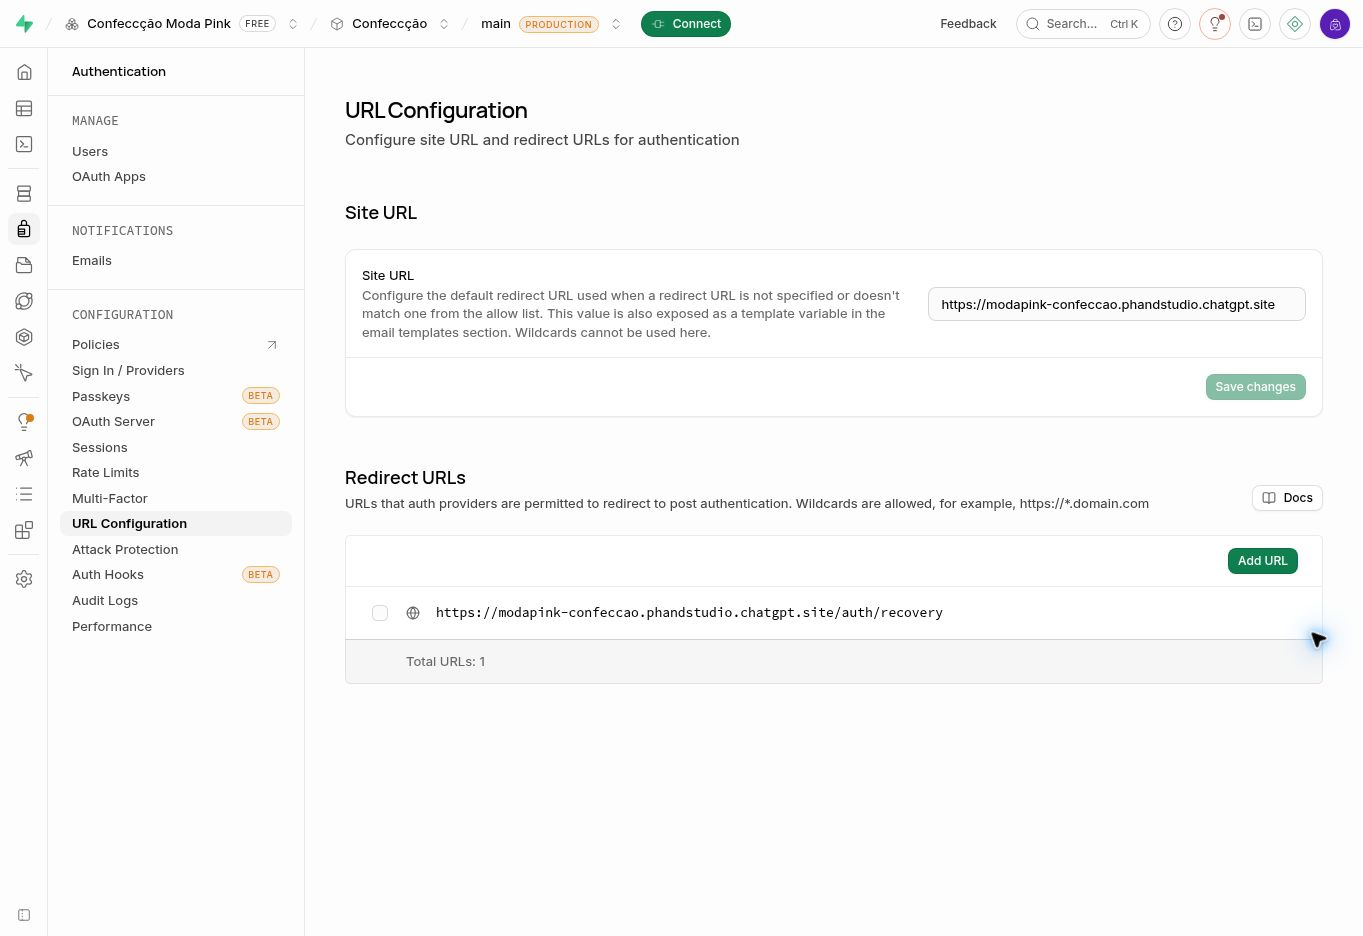
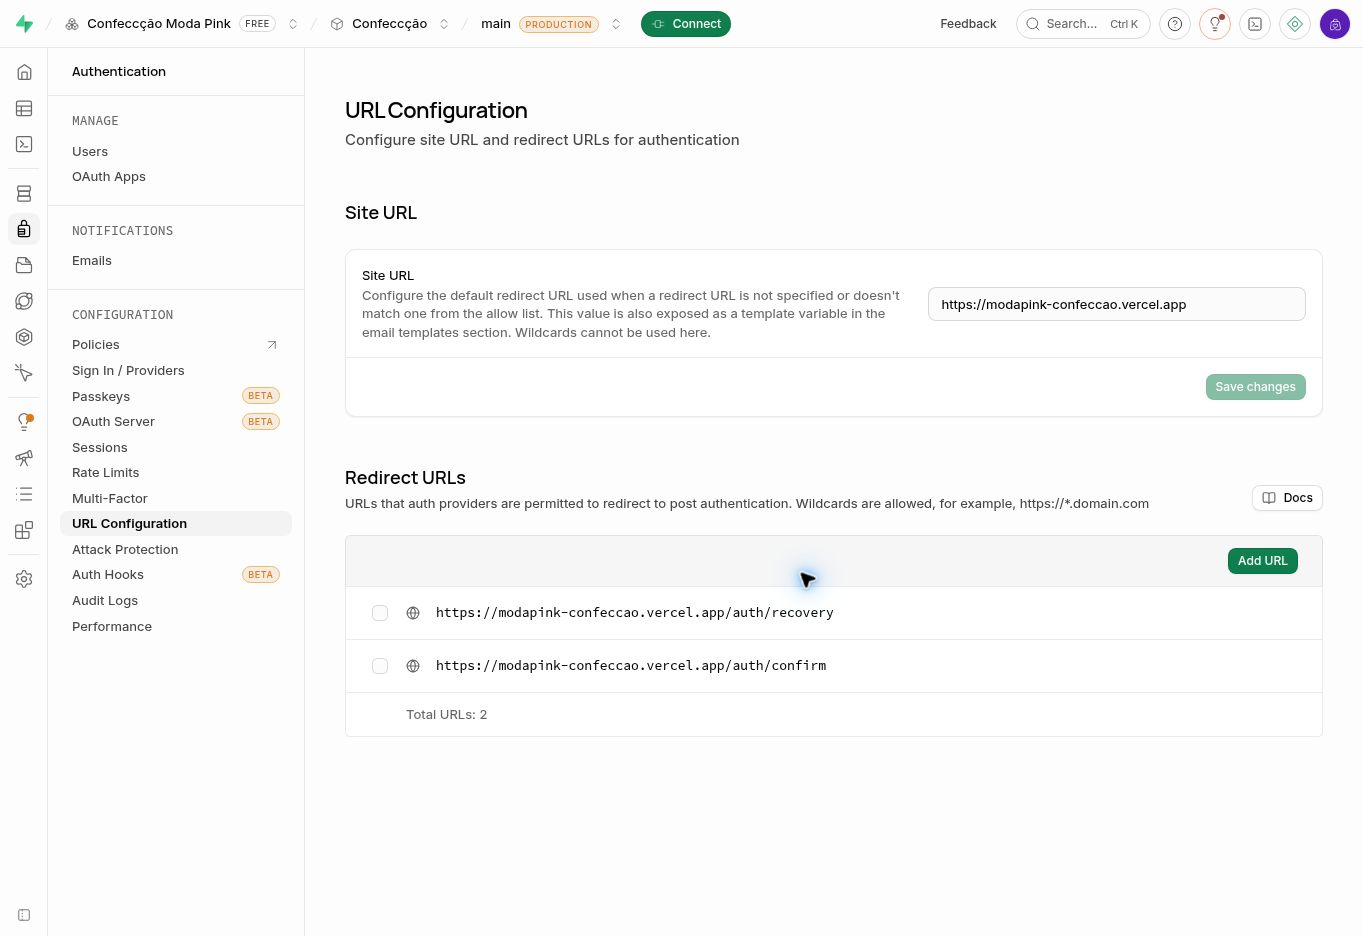
docs(confeccao): record Vercel release and retire ChatGPT Site

diff --git a/projects/confeccao/README.md b/projects/confeccao/README.md
@@ -4,11 +4,13 @@ Aplicação independente em Next.js App Router, TypeScript e Tailwind CSS 4. Ide
 
 ## Situação da integração
 
+Endereço oficial: [https://modapink-confeccao.vercel.app](https://modapink-confeccao.vercel.app). A versão corrigida foi publicada em produção na Vercel. O Site anterior no ChatGPT foi excluído, e seus callbacks foram removidos do Supabase.
+
 Banco instalado no projeto `ragyjbrbhfataoiosgqy` (Confeccção), organização Confeccção Moda Pink. Migrações aplicadas: estrutura operacional e restrição de execução de um helper privilegiado da plataforma. Todas as tabelas da aplicação usam RLS, e as imagens ficam no bucket privado `confeccao-images`.
 
-A aplicação usa configuração pública do projeto na hospedagem, sem chaves administrativas no cliente. O Auth por e-mail/senha está configurado: Site URL `https://modapink-confeccao.phandstudio.chatgpt.site`, redirect exato `https://modapink-confeccao.phandstudio.chatgpt.site/auth/recovery` e cadastro público desativado. O endpoint de configurações confirmou `disable_signup: true` e `external.email: true`.
+A aplicação usa configuração pública do projeto na hospedagem, sem chaves administrativas no cliente. O Auth por e-mail/senha está configurado para a Vercel: Site URL `https://modapink-confeccao.vercel.app`, redirects exatos `https://modapink-confeccao.vercel.app/auth/recovery` e `https://modapink-confeccao.vercel.app/auth/confirm`, e cadastro público desativado. O callback antigo do ChatGPT foi removido da lista autorizada. O endpoint de configurações confirmou `disable_signup: true` e `external.email: true`.
 
-Nenhuma conta Auth foi criada: falta confirmar o e-mail da primeira administradora com a responsável. O SMTP personalizado está desativado. Permanecem pendentes a configuração de envio, o teste de entrega para um destinatário real e o fluxo completo com a primeira conta autorizada. Nenhum usuário, senha padrão ou convite foi inventado.
+O e-mail da primeira administradora já foi fornecido pela responsável e não é persistido neste repositório. Nenhuma conta Auth foi criada e nenhum convite foi enviado. O SMTP personalizado está desativado. Permanecem pendentes a configuração de envio/SMTP, o envio do convite, a confirmação do e-mail, o provisionamento do perfil administrador e o fluxo completo com a primeira conta autorizada. Nenhum usuário ou senha padrão foi inventado.
 
 ![Referência visual da dashboard](docs/preview-dashboard.jpg)
 
@@ -36,6 +38,7 @@ Somente chaves `sb_publishable_...` são aceitas no cliente. Nunca usar chave ad
 ## Funcionalidades preparadas
 
 - Login por e-mail/senha, encerramento de sessão e recuperação de senha com destino fixo.
+- Callback de convite em `/auth/confirm` implementado; aceitação e definição da primeira senha ainda aguardam convite e validação com a destinatária.
 - Perfis ativos: administração, gestão, produção e qualidade, com autorização efetiva no banco.
 - Materiais e fichas por lote, reservas e consumo real em comandos transacionais.
 - Ordens em lista ou quadro, quantidades por tamanho e bloqueio de conclusão sem qualidade.
@@ -55,6 +58,8 @@ npm --prefix supabase/tests ci
 npm run test:db
 npm run build
 ```
+
+TypeScript, build, 15 testes locais de domínio/callback e os testes PostgreSQL passaram. Next.js 16.4.3 e Zod 4.6.7 estão fixados; a auditoria npm não encontrou vulnerabilidades em produção ou desenvolvimento. A publicação Vercel está READY e o login respondeu HTTP 200 com a configuração pública do Supabase correto. O painel redireciona visitantes sem sessão ao login. O teste autenticado completo depende do primeiro convite e da confirmação da senha.
 
 Os testes SQL usam PostgreSQL embarcado com Auth/Storage sintéticos, sem conexão à operação da cliente. Verificam atomicidade, reservas, concorrência, replay, qualidade, snapshots, contrato de retorno, RLS e permissões. Não substituem os testes reais de Auth, entrega de e-mail e upload/download após liberar o projeto.
 

diff --git a/projects/confeccao/supabase/README.md b/projects/confeccao/supabase/README.md
@@ -1,6 +1,6 @@
 # Banco da Confecção Moda Pink
 
-Base preparada para um projeto Supabase dedicado à confecção. **Estrutura aplicada** no projeto `ragyjbrbhfataoiosgqy`, organização Confeccção Moda Pink. As migrações remotas registram a instalação. Não executar o schema novamente sobre a estrutura existente. Os testes adicionais locais usam PostgreSQL embarcado e identidades sintéticas. As contas Auth reais ainda aguardam e-mails confirmados.
+Base preparada para um projeto Supabase dedicado à confecção. **Estrutura aplicada** no projeto `ragyjbrbhfataoiosgqy`, organização Confeccção Moda Pink. As migrações remotas registram a instalação. Não executar o schema novamente sobre a estrutura existente. Os testes adicionais locais usam PostgreSQL embarcado e identidades sintéticas. O e-mail da primeira administradora já foi fornecido pela responsável e não é salvo no repositório. Nenhuma conta Auth foi criada e nenhum convite foi enviado.
 
 ## Instalação e próximos passos
 
@@ -8,19 +8,21 @@ A instalação e a auditoria foram concluídas pelas migrações registradas em 
 
 O Auth por e-mail/senha já foi configurado no painel:
 
-- Site URL: `https://modapink-confeccao.phandstudio.chatgpt.site`.
-- Redirect autorizado exato: `https://modapink-confeccao.phandstudio.chatgpt.site/auth/recovery`.
+- Site URL oficial: `https://modapink-confeccao.vercel.app`.
+- Redirects autorizados exatos: `https://modapink-confeccao.vercel.app/auth/recovery` e `https://modapink-confeccao.vercel.app/auth/confirm`.
+- Callback anterior do ChatGPT removido da lista autorizada.
 - Cadastro público desligado: `/auth/v1/settings` confirmou `disable_signup: true`.
 - Provedor de e-mail habilitado: o mesmo endpoint confirmou `external.email: true`.
 - SMTP personalizado desativado. O envio para destinatários reais ainda não foi validado.
 
 Pendências de ativação:
 
-1. Confirmar com a responsável o e-mail da primeira administradora. Nenhuma conta Auth foi criada.
-2. Configurar o envio de e-mail/SMTP e testar a entrega para um destinatário real antes de depender de convite ou recuperação.
-3. Criar a primeira identidade Auth com o e-mail confirmado pela responsável, sem inferir identidades da agência ou da equipe.
+1. Configurar o envio de e-mail/SMTP e verificar entrega para a destinatária já informada. O SMTP personalizado permanece desativado.
+2. Enviar o convite para o e-mail fornecido pela responsável. Essa ação ainda não foi executada e não há conta Auth criada.
+3. Aguardar a confirmação do e-mail e a definição de senha pessoal pela destinatária. O callback `/auth/confirm` já está implementado; a validação real permanece pendente.
 4. Após a confirmação do e-mail da identidade, provisionar o primeiro perfil administrador executando `bootstrap-admin.psql` como operador do projeto. O script solicita e-mail e nome de exibição e não gera, altera ou revela senha.
 5. Validar login, expiração, recuperação, negação para usuário sem perfil, permissões de cada área e upload/leitura privada no serviço real.
+A publicação Vercel corrigida está READY, com recibo em `deployment-status.json`; o Site anterior no ChatGPT foi excluído. A verificação do fluxo autenticado depende das etapas acima.
 
 A criação de identidades Auth adicionais exige fluxo administrativo no servidor ou execução verificada no painel Supabase. O RPC de perfis gerencia somente perfis já provisionados. A interface não oferece cadastro e não promove automaticamente o primeiro visitante a administrador. O endpoint de cadastro do Supabase já está desativado. Identidades sem perfil ativo não têm acesso aos dados da confecção.
 

diff --git a/projects/confeccao/docs/arquitetura.md b/projects/confeccao/docs/arquitetura.md
@@ -20,11 +20,13 @@ As imagens são gravadas em `confeccao-images`, privado. O banco persiste soment
 
 Custos não são enviados a produção/qualidade; a interface também oculta esses controles. Revogação de perfil é consultada no banco em cada operação, independentemente da validade do JWT.
 
-## Banco aplicado, Auth configurado e contas pendentes
+## Vercel, banco aplicado e ativação pendente
 
 O projeto `ragyjbrbhfataoiosgqy`, da organização Confeccção Moda Pink, recebeu a estrutura operacional e o bucket privado. Foi restringido o EXECUTE público do helper de event trigger da plataforma, preservando sua função interna. As leituras e escritas operacionais exigem identidade autenticada com perfil ativo.
 
-O Auth foi configurado no painel Supabase com Site URL `https://modapink-confeccao.phandstudio.chatgpt.site` e redirect de recuperação exato `https://modapink-confeccao.phandstudio.chatgpt.site/auth/recovery`. O cadastro público foi desligado; o endpoint `/auth/v1/settings` confirmou `disable_signup: true` e `external.email: true`.
+O endereço oficial é `https://modapink-confeccao.vercel.app`, no projeto Vercel `prj_BoPkAUvTQJs5bBo1aA0DGVbWnzrW`, equipe `team_eGmQjmQ95Bd8nTTnOwOy2Rxj`. A publicação de produção `dpl_29ua1j39JPBmzbXVMqZH1uZeuFCR`, commit `e09e23d50a3f4ae6cbca83e83a12630b6edcf3d4`, está READY. O Site anterior no ChatGPT foi excluído; o código permanece no GitHub.
 
-Ainda não existem contas Auth provisionadas: falta confirmar o e-mail da primeira administradora. O SMTP personalizado permanece desativado. É necessário configurar o envio de e-mail e verificar a entrega para um destinatário real, provisionar a primeira identidade/perfil autorizado e testar login, recuperação, permissões e imagens com essa conta. A configuração de Auth concluída não equivale à verificação do fluxo autenticado.
+O Auth foi configurado no painel Supabase com Site URL `https://modapink-confeccao.vercel.app` e redirects exatos `https://modapink-confeccao.vercel.app/auth/recovery` e `https://modapink-confeccao.vercel.app/auth/confirm`. O callback antigo do ChatGPT foi retirado da lista autorizada. O cadastro público permanece desligado; o endpoint `/auth/v1/settings` confirmou `disable_signup: true` e `external.email: true`. O callback de convite está implementado no aplicativo, com validação real ainda pendente.
+
+O e-mail da primeira administradora já foi fornecido, sem ser gravado no repositório. Ainda não existem contas Auth provisionadas e nenhum convite foi enviado. O SMTP personalizado permanece desativado. As próximas etapas são configurar envio/SMTP, enviar o convite, confirmar o e-mail da destinatária, provisionar o perfil administrador e testar login, recuperação, permissões e imagens com a conta real. TypeScript, build, 15 testes de domínio/callback e testes SQL com validação do envelope RPC passaram. Next.js 16.4.3 e Zod 4.6.7 corrigem os advisories encontrados; npm audit não retornou vulnerabilidades. O login publicado carregou corretamente e o painel sem sessão retornou ao login. Isso não substitui o teste autenticado com a conta real.
 
